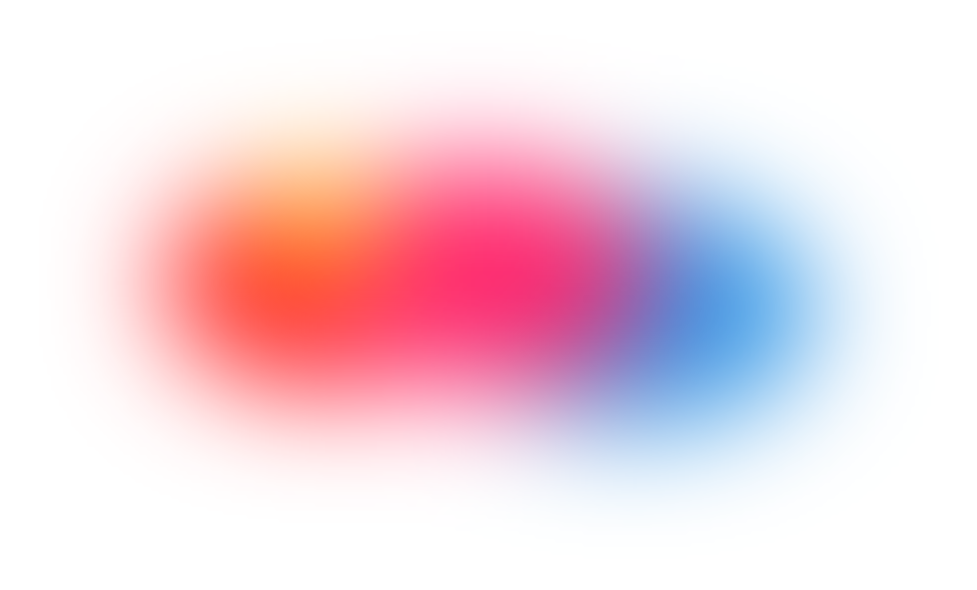
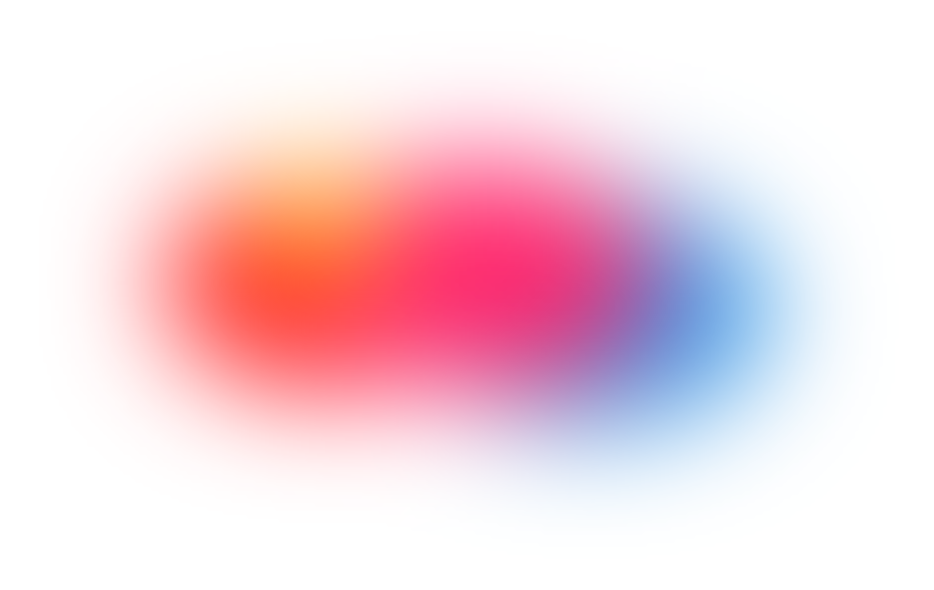
Add colors highlighting name on desktop

Changed region(s): [[0.5899, 0.3051, 0.7762, 0.6407]]

diff --git a/_sass/base.scss b/_sass/base.scss
@@ -118,8 +118,8 @@ footer { position: absolute; bottom: 0; width: 100%; height: 2.0rem; margin-bott
 @include media-query($on-laptop) { .content-title h2 { font-size: $palm-title-font-size; } }
 @include media-query($on-laptop) { .content-title h1 { font-size: $palm-title-font-size; margin-bottom: 5px; } }
 
-.colors { display: none; }
-@include media-query($on-laptop) { .colors { display: inherit; width: 16rem; height: calc(16rem*0.66); rotate: 160deg; position: absolute; right: calc(-16rem/12); top: calc(16rem/6); z-index: -1; }}
+.colors { width: 30vw; height: calc(30vw*0.66); rotate: 160deg; position: absolute; right: -7vw; top: 30vh; z-index: -1;}
+@include media-query($on-laptop) { .colors { width: 16rem; height: calc(16rem*0.66); rotate: 160deg; position: absolute; right: calc(-16rem/12); top: calc(16rem/6); }}
 
 .mobile-socials { display: none; }
 @include media-query($on-laptop) { .mobile-socials { display: inherit; text-align: right; margin-bottom: 25px;}}
